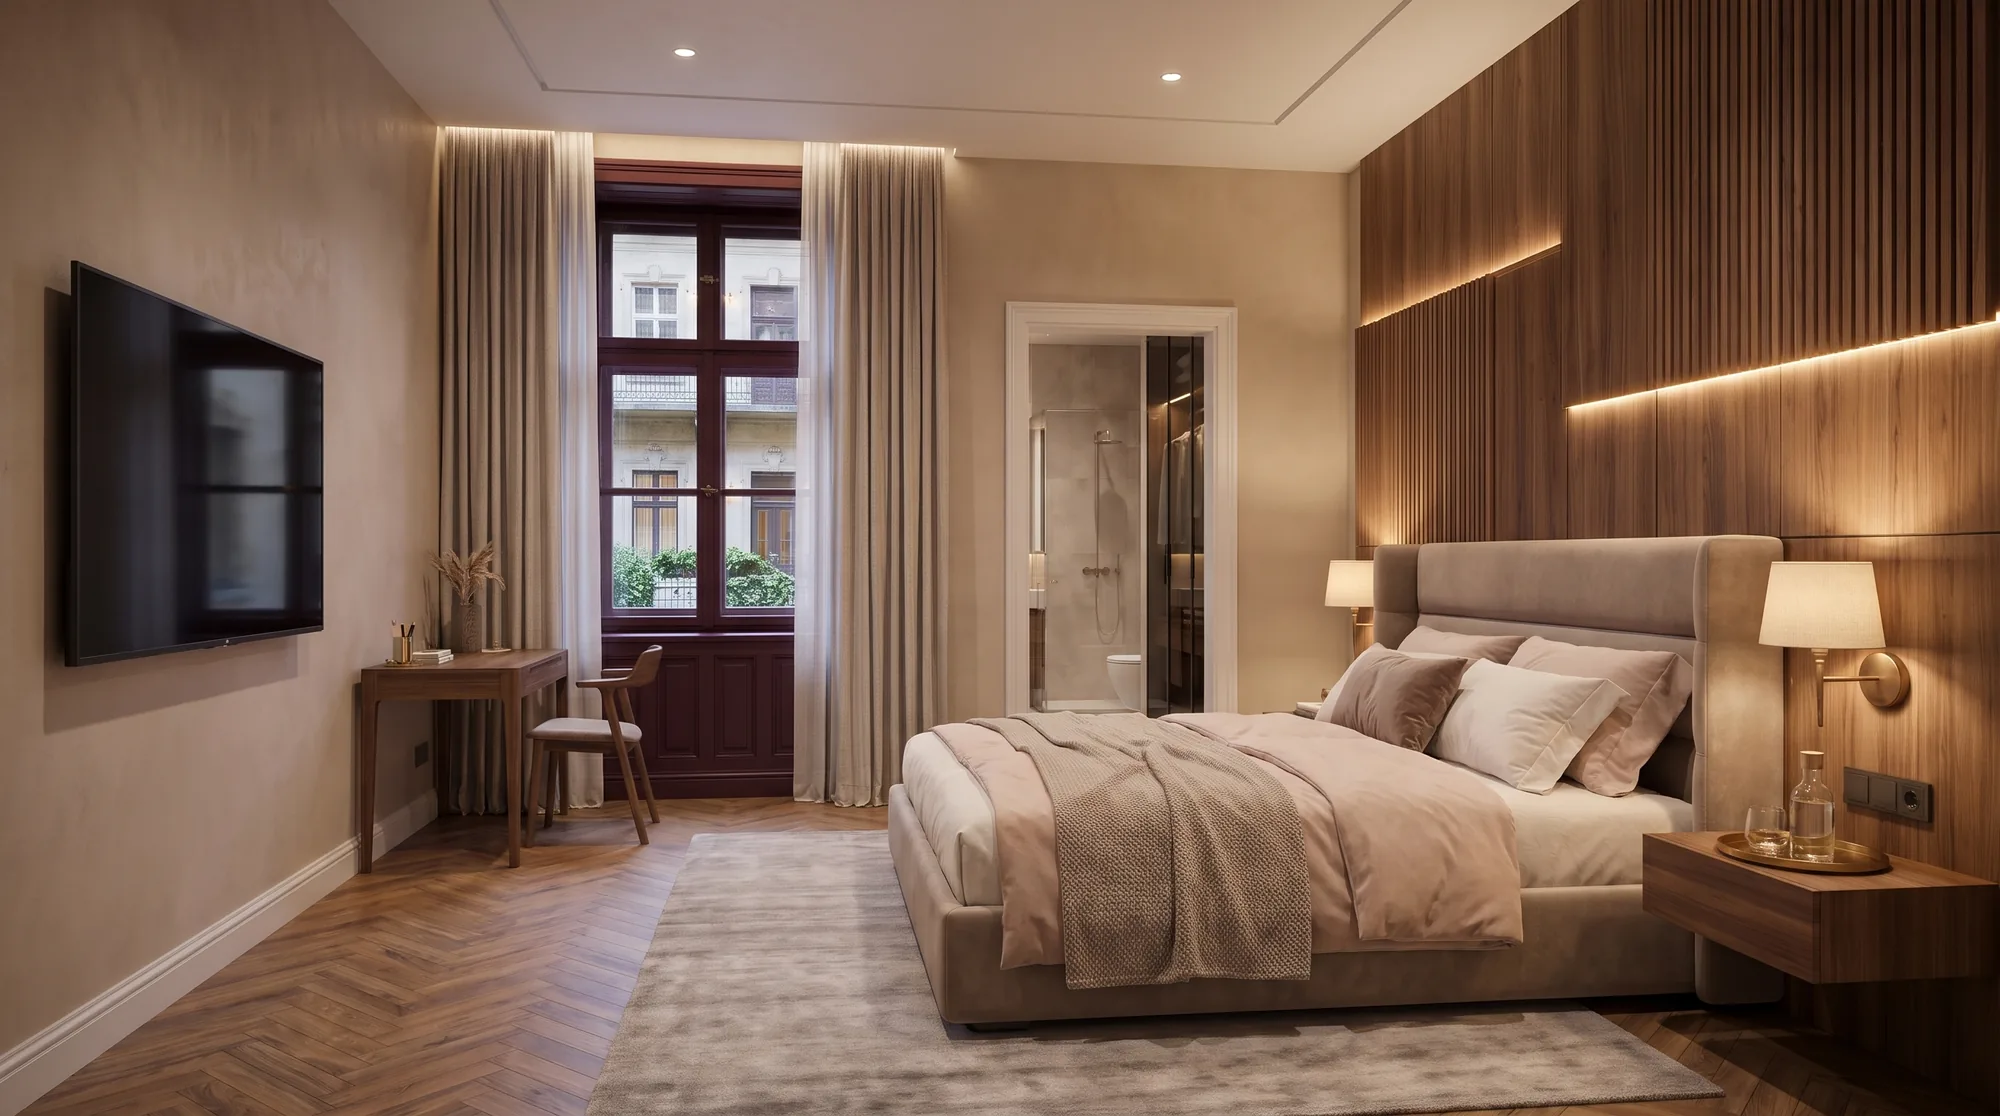
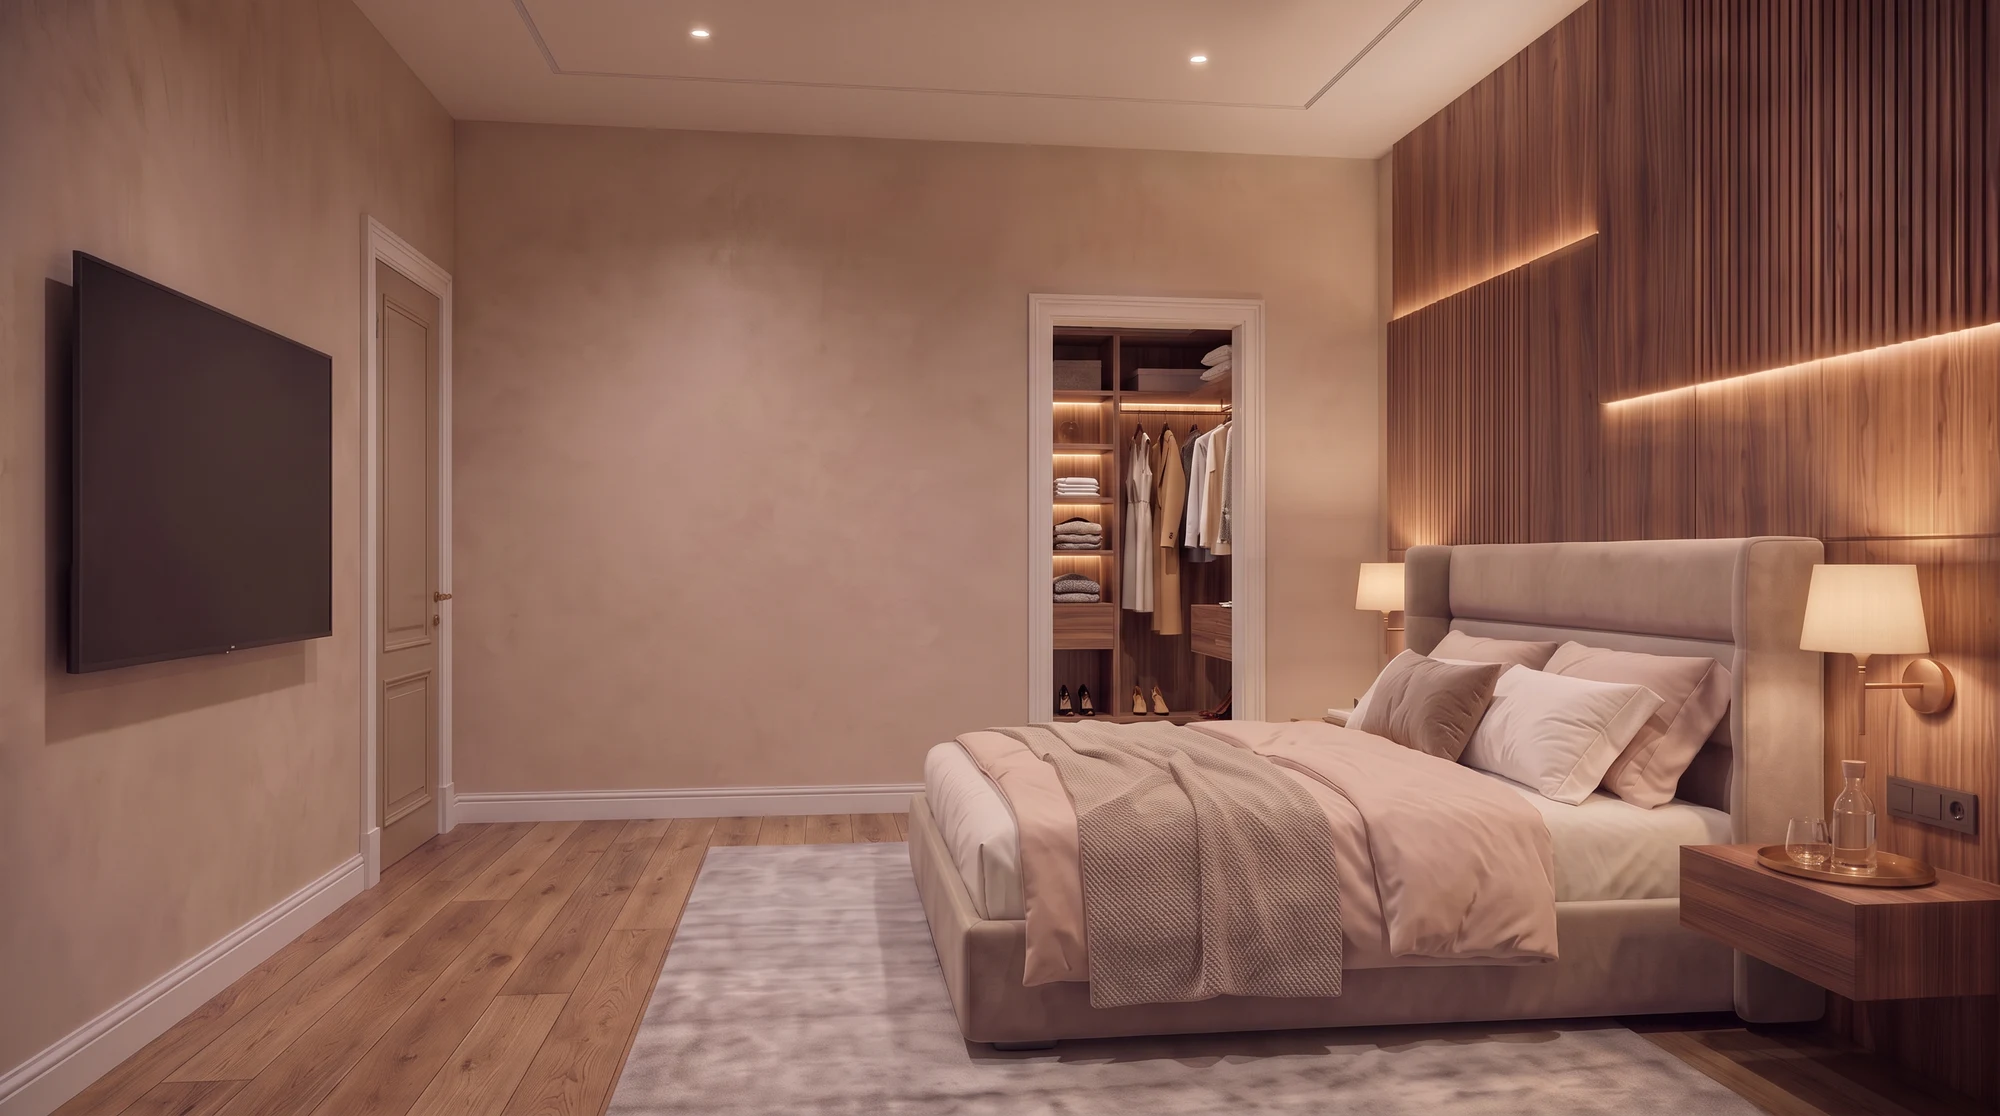
1. lakás: új hálószoba kép gardróbbal, a konyha-étkező kép lekerült
Claude-Session: https://claude.ai/code/session_018xvr5icGNy1B7YPTSB9UEA

diff --git a/index.html b/index.html
@@ -576,9 +576,8 @@ footer li{list-style:none;margin-bottom:8px}
         <p class="fp-note fp-note-plan"><b>Alaprajz a tervek alapján.</b> Az alaprajz és a felülnézet a jóváhagyott tervrajz szerinti elrendezést mutatja; a helyiségenkénti területek számított, tájékoztató értékek, a lakás hivatalos hasznos alapterülete 65,71 m².</p>
         <div class="fp-gal">
           <figure class="lbx" data-cap="Nappali"><img src="images/lakasok/l1-nappali.webp" alt="Nappali – bouclé kanapé és fotel, márvány dohányzóasztal, eredeti magas ablak" loading="lazy"><figcaption>Nappali</figcaption></figure>
-          <figure class="lbx" data-cap="Konyha és étkező"><img src="images/lakasok/l1-etkezo-konyha.webp" alt="Konyha és étkező – diófa konyhabútor szigettel, hatszemélyes étkezőasztal" loading="lazy"><figcaption>Konyha és étkező</figcaption></figure>
           <figure class="lbx" data-cap="Fürdőszoba"><img src="images/lakasok/l1-furdoszoba.webp" alt="Fürdőszoba – kád üvegparavánnal, diófa mosdópult, beépített mosógép, háttérvilágított tükör, meleg rejtett világítás" loading="lazy"><figcaption>Fürdőszoba</figcaption></figure>
-          <figure class="lbx" data-cap="Hálószoba"><img src="images/lakasok/l1-haloszoba.webp" alt="Hálószoba – kárpitozott franciaágy, diófa falburkolat, íróasztal az ablaknál" loading="lazy"><figcaption>Hálószoba</figcaption></figure>
+          <figure class="lbx" data-cap="Hálószoba"><img src="images/lakasok/l1-haloszoba.webp" alt="Hálószoba – kárpitozott franciaágy, megvilágított diófa lamellás falburkolat, nyitott gardrób ruhákkal" loading="lazy"><figcaption>Hálószoba</figcaption></figure>
         </div>
         <p class="fp-note"><b>Tájékoztató jellegű látványképek.</b> A belső képek illusztrációk: a berendezés, a bútorok, a világítás és az anyaghasználat a hangulatot mutatják, nem képezik az eladás tárgyát.</p>
       </article>
